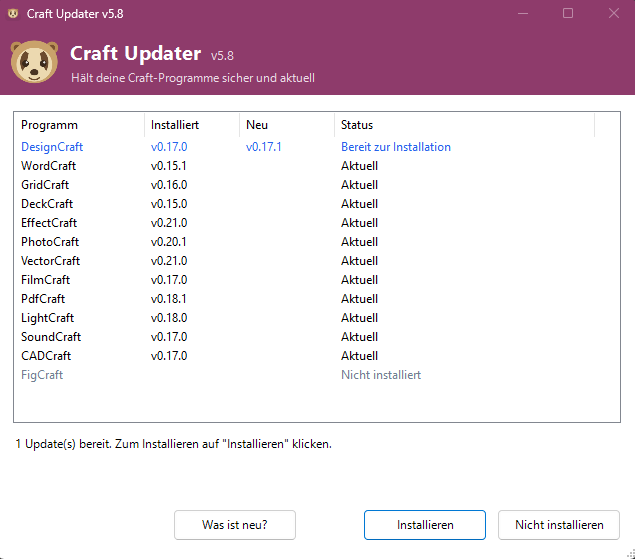
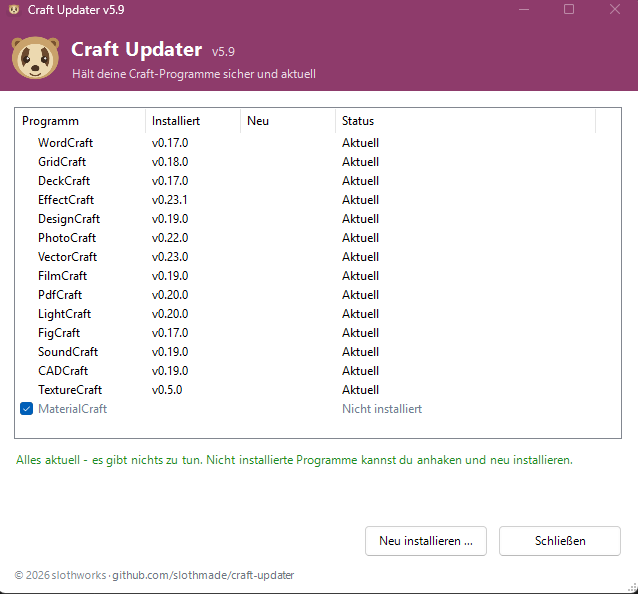
Craft Updater 5.9: new screenshots, changelog final

diff --git a/README.md b/README.md
@@ -14,7 +14,7 @@ It checks the official GitHub releases, downloads only properly signed installer
 *Deutsch: Das Programm spricht auf einem deutschen Windows automatisch Deutsch. Eine deutsche Anleitung liegt im Paket unter [`ANLEITUNG.txt`](Craft-Updater-v5.9-Portable/ANLEITUNG.txt).*
 
 <p align="center">
-  <img src="docs/screenshot-en.png" width="420" alt="Craft Updater window in English: one update ready to install, all other Craft programs up to date">
+  <img src="docs/screenshot-en.png" width="420" alt="Craft Updater window in English: all Craft programs up to date, a program that is not installed is ticked for a new installation">
   <img src="docs/screenshot-de.png" width="420" alt="Craft Updater window in German">
 </p>
 

diff --git a/CHANGELOG.md b/CHANGELOG.md
@@ -1,6 +1,6 @@
 # Changelog
 
-## 5.9 (in progress)
+## 5.9
 
 - New: **MaterialCraft** is updated as well (now 15 Craft programs). Its installer goes through exactly the same checks as all others.
 - Window: after a successful update the column *Installed* shows the new version (before, it kept showing the old one until the next start). The window grows a little when there are more programs than fit into the list.
